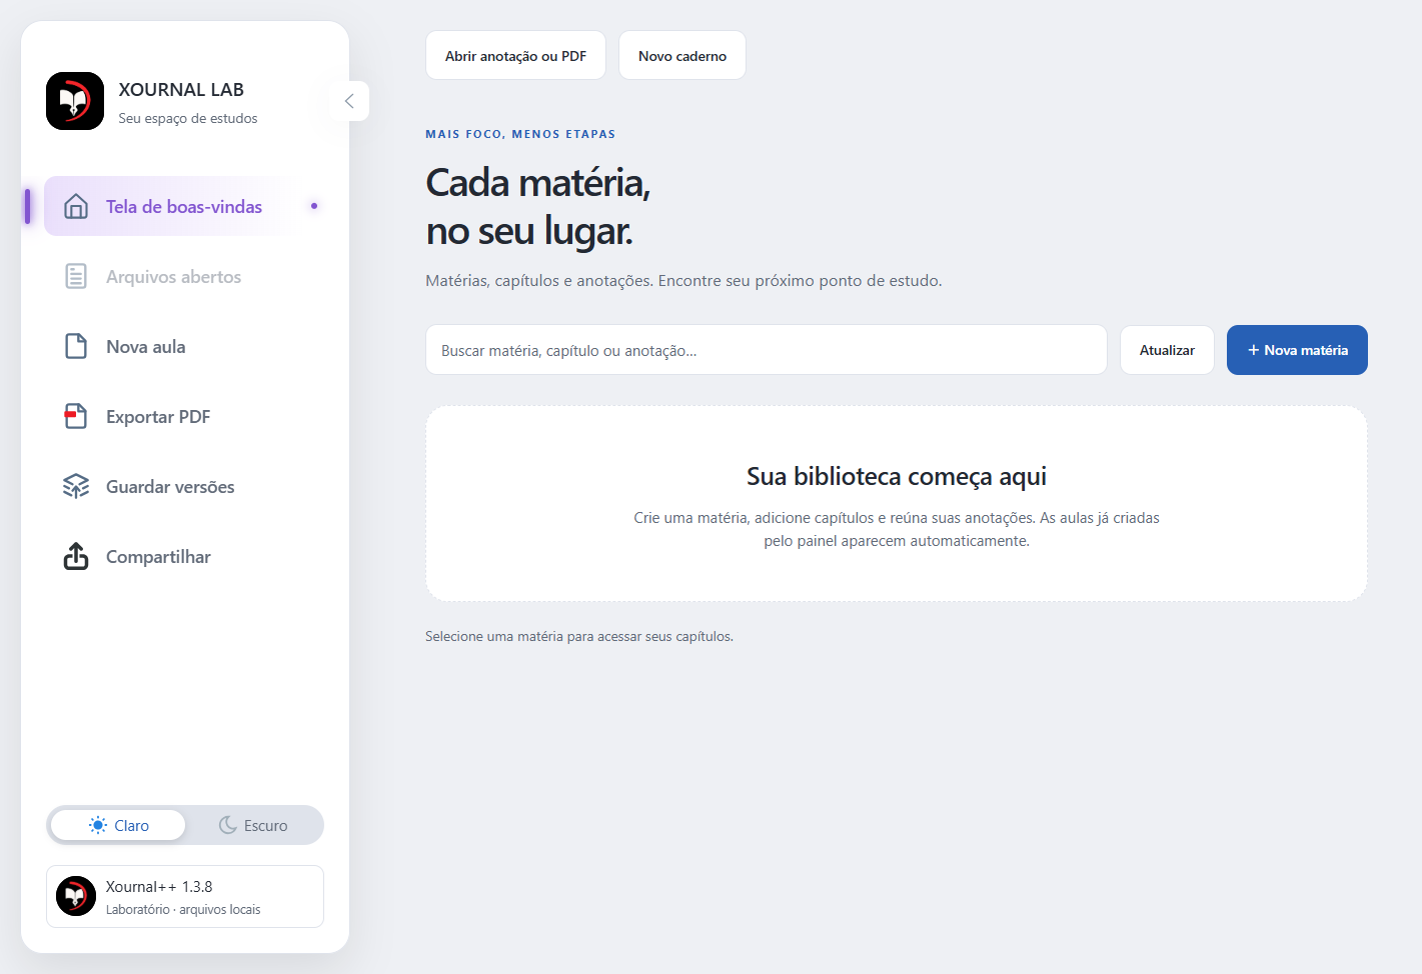
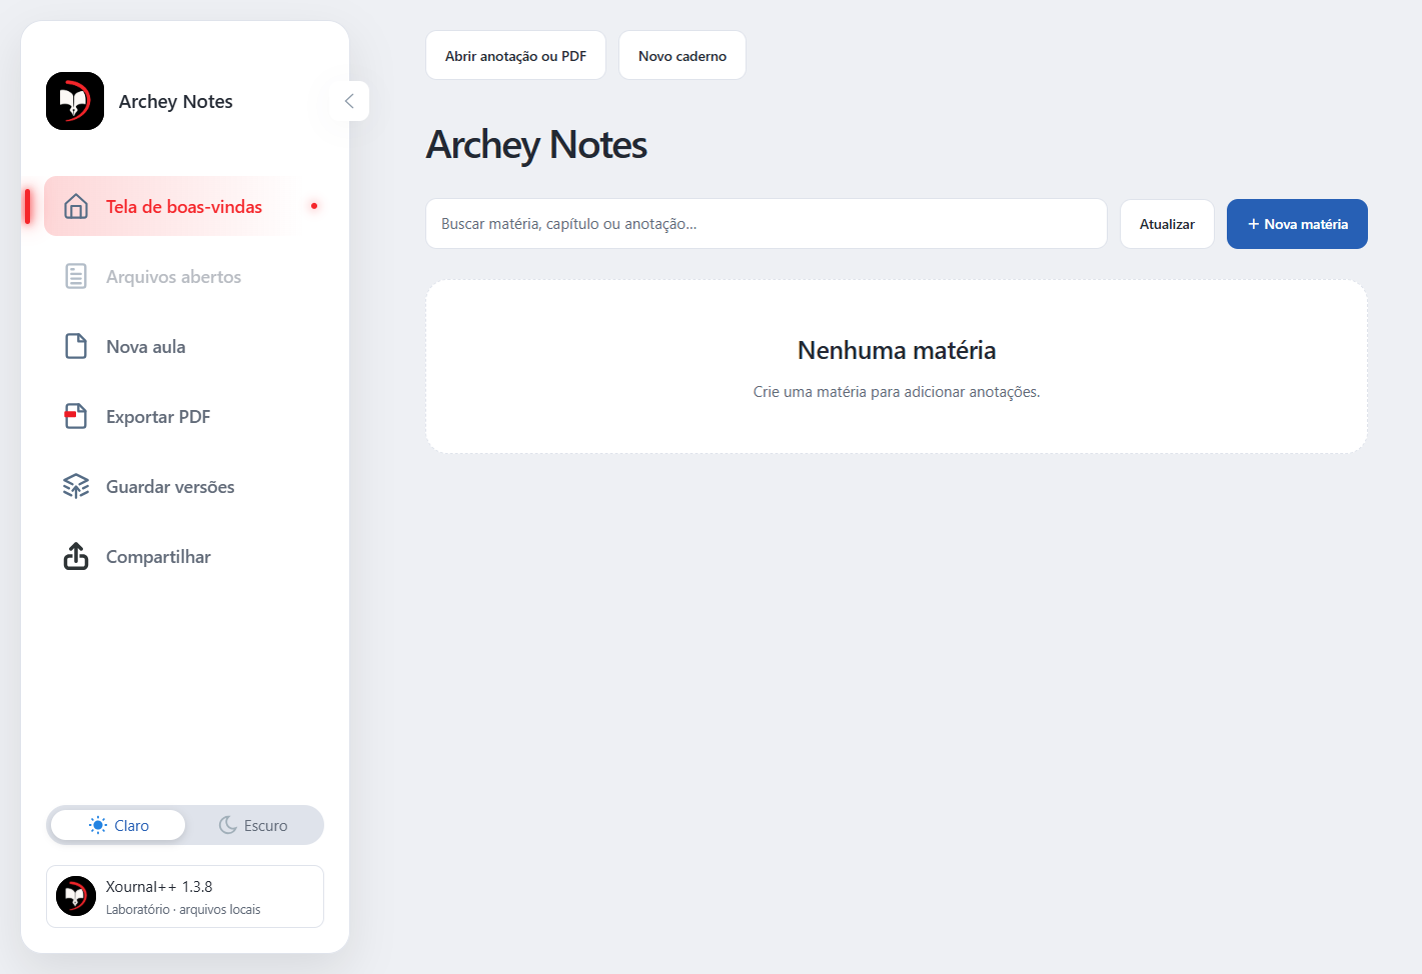
chore: prepare 0.1.1 preview release documentation

diff --git a/VALIDATION.md b/VALIDATION.md
@@ -1,4 +1,4 @@
-# Validação da prévia 0.1.0
+# Validação da prévia 0.1.1
 
 - Auditoria do pacote: zero matérias, zero documentos pessoais; somente três páginas-modelo vazias geradas do zero.
 - Perfil novo, sem catálogo, arquivos recentes, configurações pessoais, autosaves, cookies ou histórico do laboratório.
@@ -11,3 +11,13 @@
 - Nenhuma lógica C++ foi alterada na preparação da publicação. A versão nativa corresponde ao código exportado registrado em UPSTREAM.json.
 - Os testes foram feitos no computador de desenvolvimento com caminho de instalação diferente. Ainda é necessária validação em uma instalação limpa de Windows e com outros dispositivos de toque/caneta.
 - O download ZIP possui SHA-256 e MANIFEST-SHA256.json. Os arquivos gerados pelos ensaios ficam fora do pacote publicado.
+
+## Atualização 0.1.1-preview
+
+- Indicador e brilho da lateral usam o vermelho da logo nos dois temas.
+- Nome Archey Notes aplicado à janela, lateral e tela de boas-vindas.
+- Slogans removidos; títulos, instruções, prévias e telas vazias usam textos diretos.
+- Rodapé mantém a versão do Xournal++.
+- Nova cópia descartável iniciou com zero matérias e zero documentos, criou uma nota com Python incorporado e abriu o editor nativo integrado.
+- Os 14 testes Node passaram novamente. Os ensaios de interface e animação das alterações também passaram.
+- A captura docs/clean-home.png mostra a biblioteca vazia da versão atual.

diff --git a/README.md b/README.md
@@ -29,7 +29,7 @@ Esta prévia é para Windows 10/11 x64. O pacote inclui os runtimes do editor, E
 
 ## Estado do projeto
 
-Prévia experimental `0.1.0-preview`, baseada no Xournal++ 1.3.8. Reconhecimento de texto, entrada por caneta/toque e integração das janelas Windows ainda precisam de testes em mais equipamentos. O código do editor permanece C++/GTK; o Electron organiza o ambiente externo. A referência visual de animação foi adaptada à tecnologia do projeto.
+Prévia experimental `0.1.1-preview`, baseada no Xournal++ 1.3.8. Reconhecimento de texto, entrada por caneta/toque e integração das janelas Windows ainda precisam de testes em mais equipamentos. O código do editor permanece C++/GTK; o Electron organiza o ambiente externo. A referência visual de animação foi adaptada à tecnologia do projeto.
 
 ## Código, licença e contribuição
 
